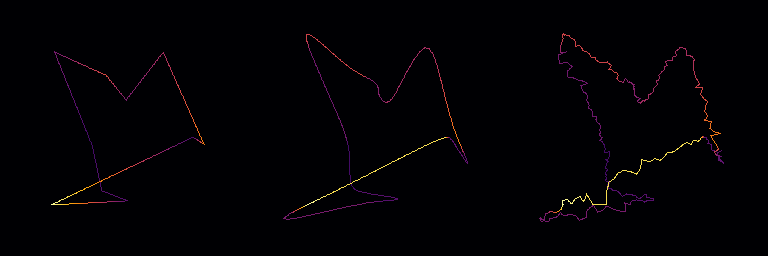
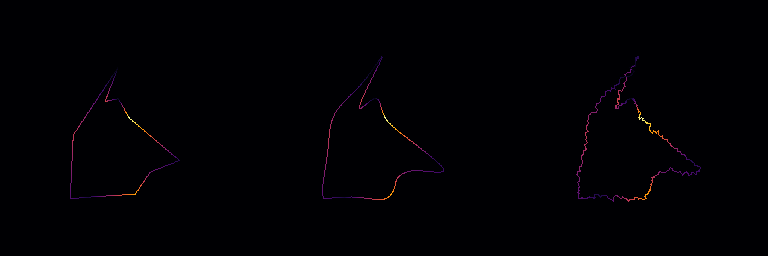
Change Bezier procedure for Path object and use another external package

diff --git a/src/geometry/path.cpp b/src/geometry/path.cpp
@@ -6,7 +6,7 @@
 #include <list>
 #include <random>
 
-#include "bezier.h"
+#include "Bezier.h"
 #include "macrologger.h"
 
 #include "highmap/array.hpp"
@@ -20,69 +20,42 @@ namespace hmap
 
 void Path::bezier(float curvature_ratio, int edge_divisions)
 {
-  // backup 2nd point for closed path
-  Point p_bckp = this->points[1];
+  Path new_path = Path();
 
-  size_t ks = this->closed ? 0 : 1; // trick to handle closed contours
+  size_t ks = this->closed ? 0 : 1;
   for (size_t k = 0; k < this->get_npoints() - ks; k++)
   {
     size_t kp1 = (k + 1) % this->get_npoints();
+    size_t kp2 = (k + 2) % this->get_npoints();
 
-    // start point
-    bezier::Point p1 = bezier::Point(this->points[k].x, this->points[k].y);
+    Bezier curve = Bezier();
+    curve.set_steps(edge_divisions);
 
-    // control #1
-    float x2 = (1.f - curvature_ratio) * this->points[k].x +
-               curvature_ratio * this->points[kp1].x;
-    float y2 = (1.f - curvature_ratio) * this->points[k].y +
-               curvature_ratio * this->points[kp1].y;
+    curve.add_way_point(Vector(this->points[k].x, this->points[k].y, 0.f));
 
-    bezier::Point p2 = bezier::Point(x2, y2);
-
-    // control #2
-    bezier::Point p3 = bezier::Point();
-
-    if ((k == this->get_npoints() - ks - 1) and (this->closed == false))
-      p3 = p2;
-    else
     {
-      size_t kp2 = (k + 2) % this->get_npoints();
-
-      Point point_kp2 = Point();
-      if (kp2 == 1)
-        point_kp2 = p_bckp;
-      else
-        point_kp2 = this->points[kp2];
-
-      float x3 = 2.f * this->points[kp1].x -
-                 (1.f - curvature_ratio) * this->points[kp1].x -
-                 curvature_ratio * point_kp2.x;
-      float y3 = 2.f * this->points[kp1].y -
-                 (1.f - curvature_ratio) * this->points[kp1].y -
-                 curvature_ratio * point_kp2.y;
-
-      p3 = bezier::Point(x3, y3);
+      Point p = lerp(this->points[k], this->points[kp1], 1.f - curvature_ratio);
+      curve.add_way_point(Vector(p.x, p.y, 0.f));
     }
 
-    // end point
-    bezier::Point p4 = bezier::Point(this->points[kp1].x, this->points[kp1].y);
-
-    // Bezier curve
-    std::vector<bezier::Point> xy = {p1, p2, p3, p4};
-    bezier::Bezier<3>          cubicBezier(xy);
-
-    for (int i = 1; i < edge_divisions - 1; i++)
     {
-      float         s = (float)i / (float)(edge_divisions - 1);
-      bezier::Point p = cubicBezier.valueAt(s);
+      Point p = lerp(this->points[kp1], this->points[kp2], -curvature_ratio);
+      curve.add_way_point(Vector(p.x, p.y, 0.f));
+    }
 
+    curve.add_way_point(Vector(this->points[kp1].x, this->points[kp1].y, 0.f));
+
+    for (int i = 0; i < curve.node_count(); ++i)
+    {
+      // interpolate value
+      float s = curve.length_from_starting_point(i) / curve.total_length();
       float v = (1. - s) * this->points[k].v + s * this->points[kp1].v;
-      Point pc = Point(p.x, p.y, v);
 
-      this->points.insert(this->points.begin() + k + 1, pc);
-      ++k;
+      new_path.add_point(Point(curve.node(i).x, curve.node(i).y, v));
     }
   }
+
+  *this = new_path;
 }
 
 void Path::clear()

diff --git a/examples/ex_path_bezier/ex_path_bezier.cpp b/examples/ex_path_bezier/ex_path_bezier.cpp
@@ -5,7 +5,7 @@
 int main(void)
 {
   hmap::Vec2<int> shape = {256, 256};
-  int             seed = 1;
+  int             seed = 3;
 
   hmap::Vec4<float> bbox = {1.f, 2.f, -0.5f, 0.5f};
   hmap::Path        path = hmap::Path(10, seed, {1.2f, 1.8f, -0.3, 0.3f});
